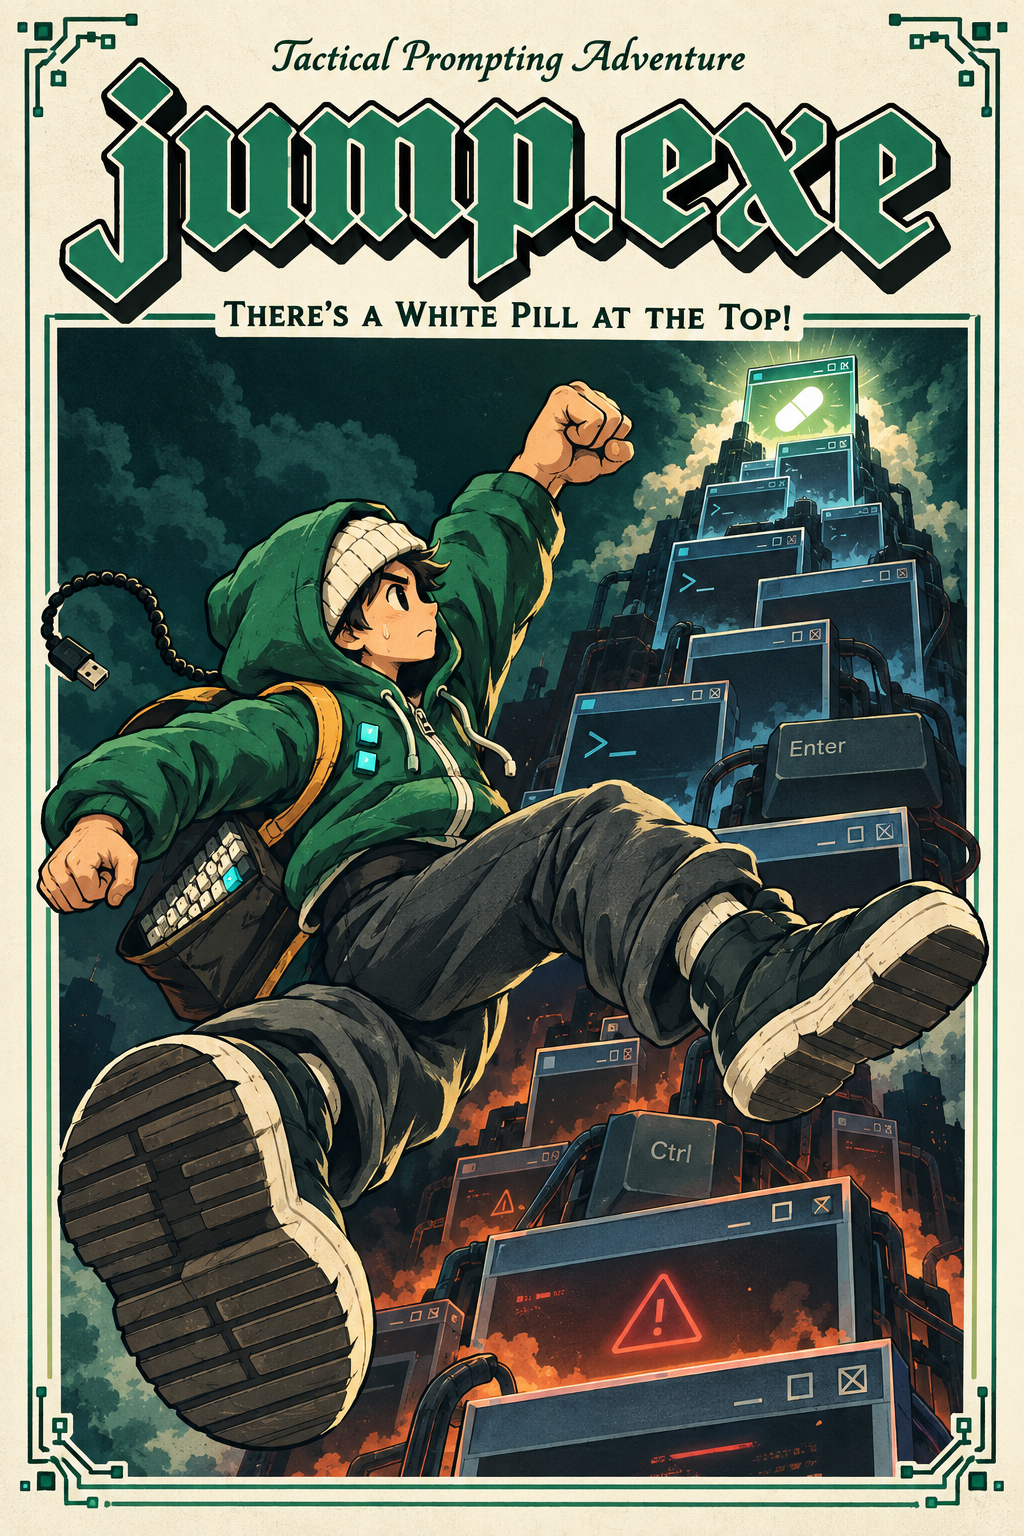
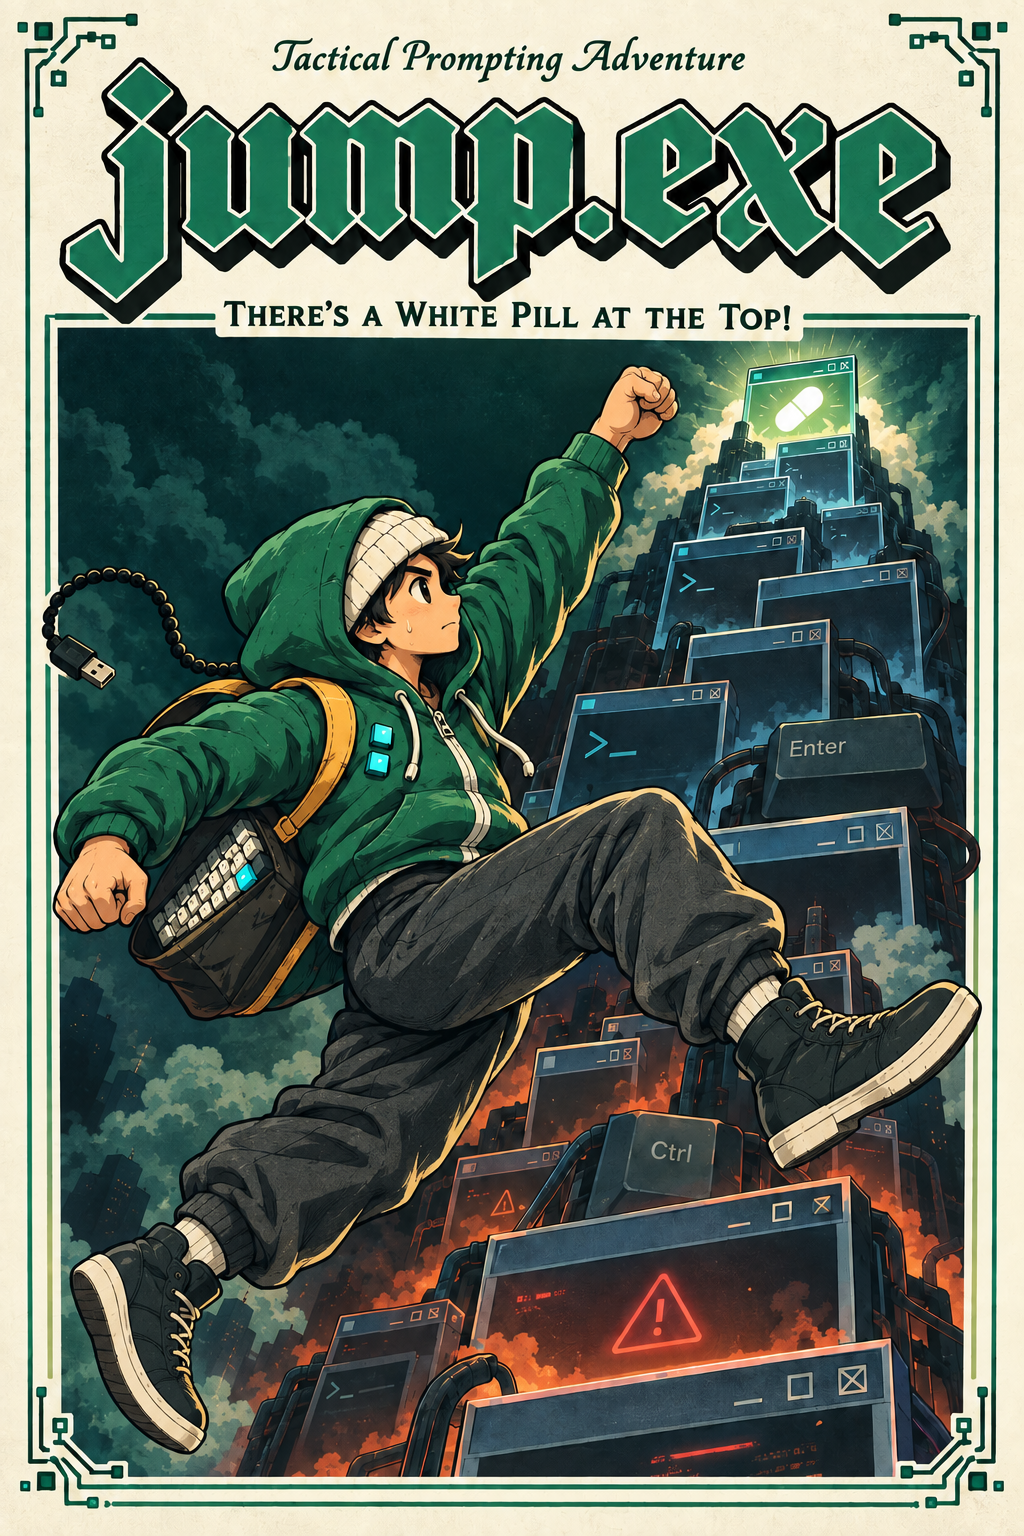
docs: correct cover character shoulder, hand, and leg anatomy

diff --git a/assets/PROVENANCE.md b/assets/PROVENANCE.md
@@ -9,8 +9,10 @@ The third-party movement sound effects are documented below.
 [`docs/story-preview.png`](../docs/story-preview.png) is promotional cover art
 generated with the built-in OpenAI image-generation tool. The supplied Jump King
 cover guided the composition; the game's character atlas guided the developer's
-outfit and palette. The [generation prompt](../docs/story-preview.prompt.txt) is
-included. The previous five-stage gameplay illustration is preserved as
+outfit and palette. The [generation prompt](../docs/story-preview.prompt.txt) and
+[anatomy correction prompt](../docs/story-preview-anatomy.prompt.txt) are included.
+The anatomy edit reconnects the raised arm at the shoulder and revises the hands
+and legs while preserving the cover layout. The previous five-stage gameplay illustration is preserved as
 [`docs/stage-preview.png`](../docs/stage-preview.png).
 
 ## Character and environment
